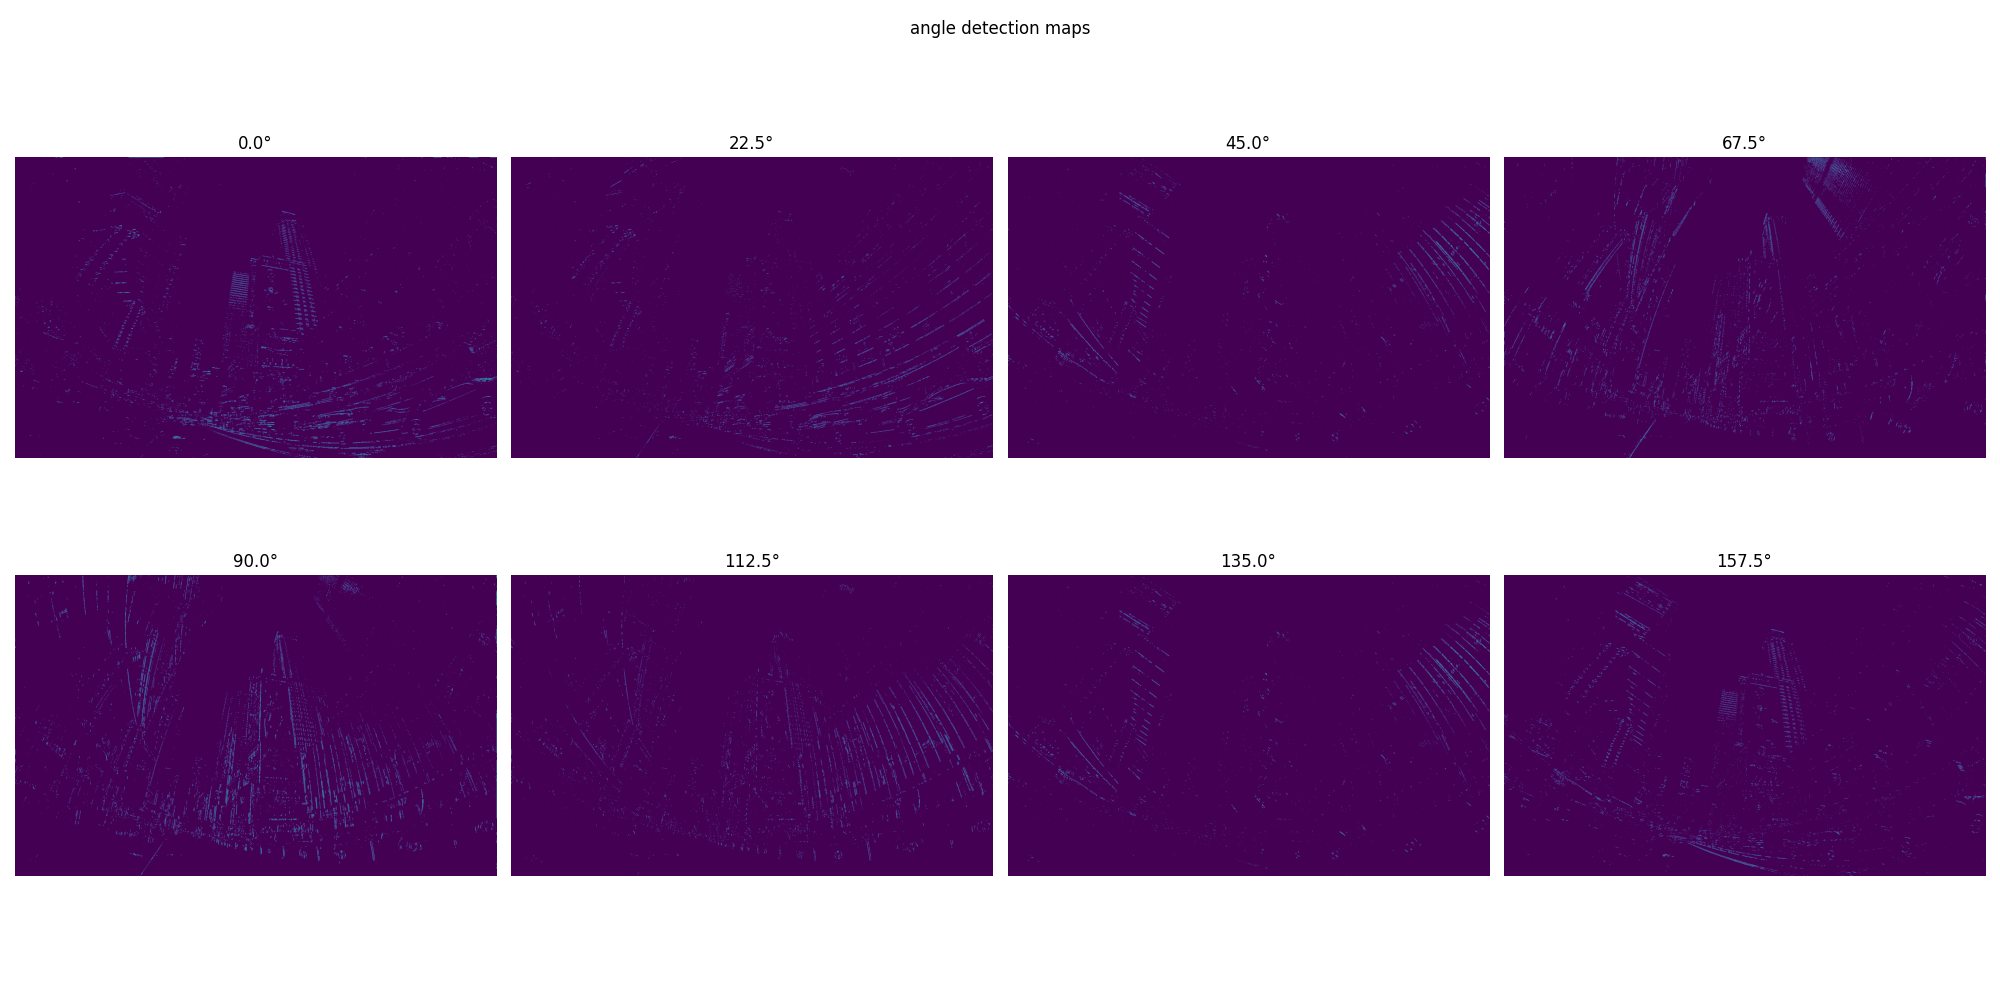
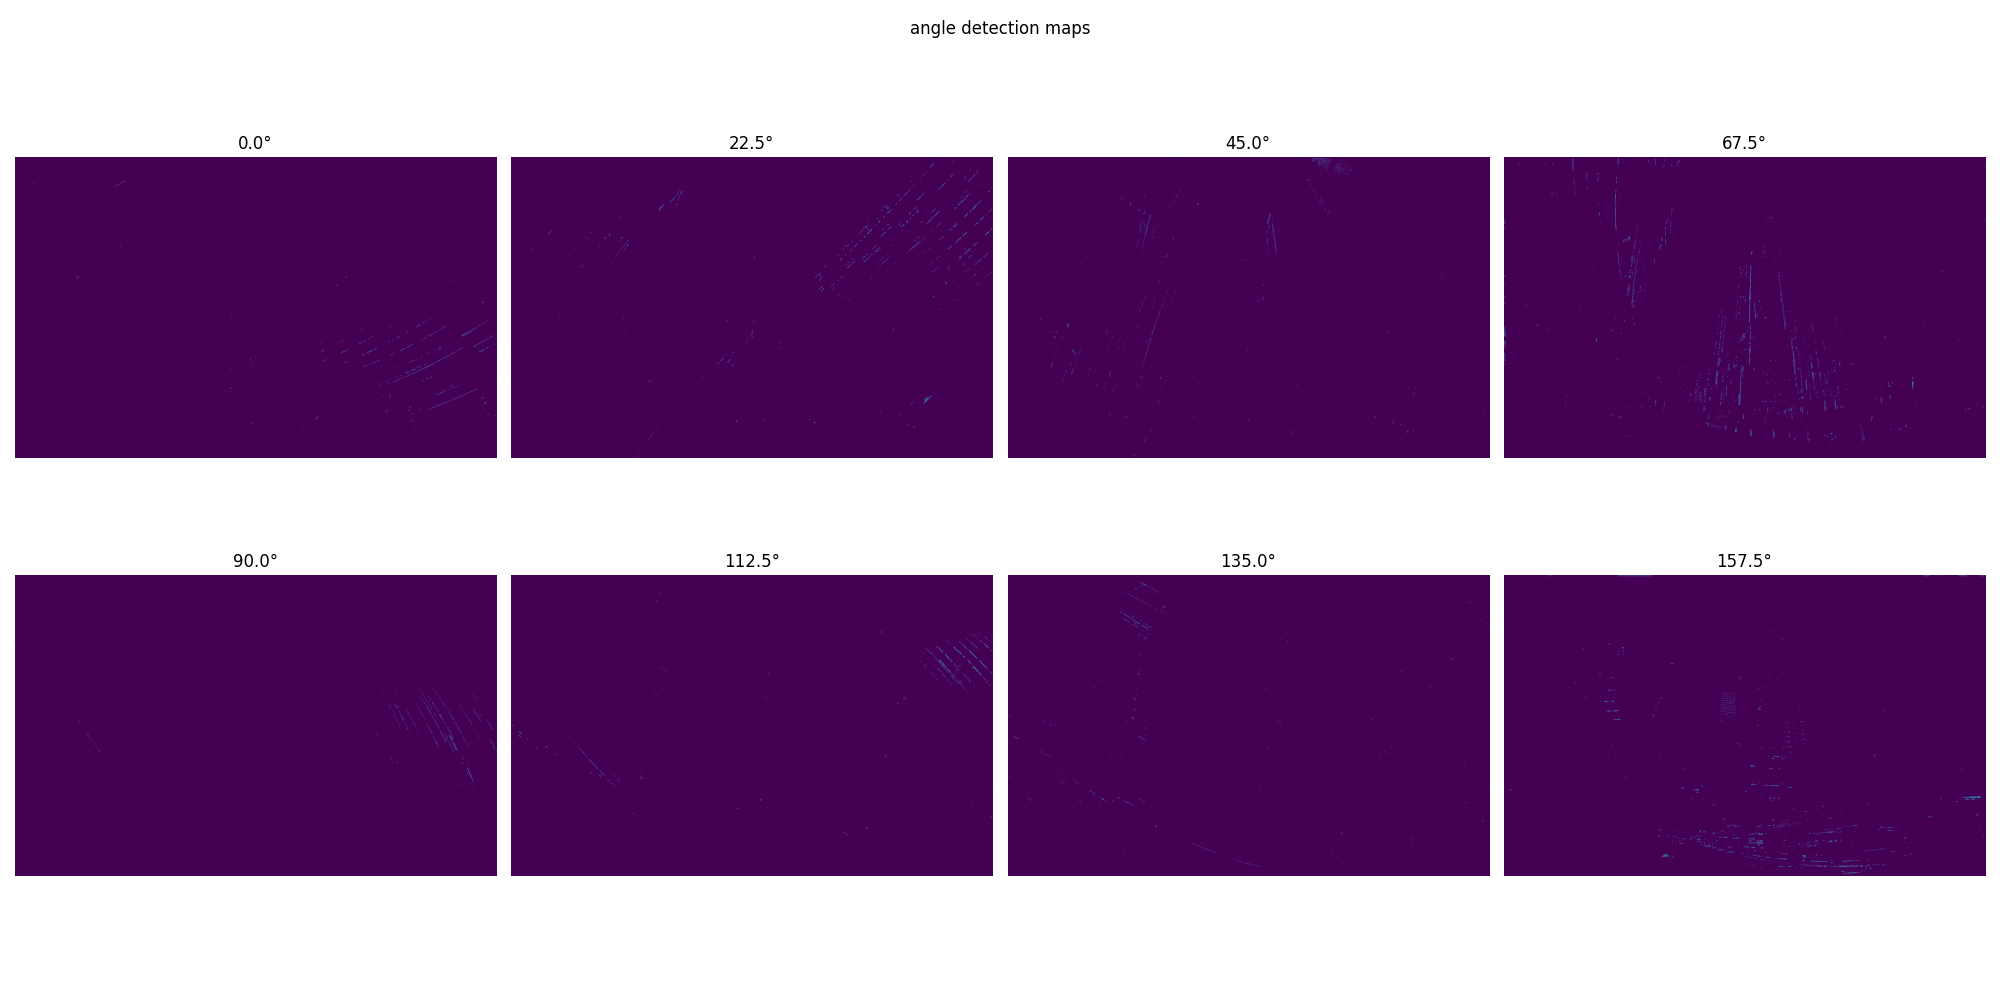
edited minimum filter size method

diff --git a/src/image_preprocessor.py b/src/image_preprocessor.py
@@ -149,7 +149,7 @@ class ImagePreprocessor(Observable):
 
 
         rad_angle = radians(angle)
-        rotation_matrix = np.array([[cos(rad_angle), sin(rad_angle)],
+        rotation_matrix = np.array([[cos(rad_angle), -sin(rad_angle)],
                                     [sin(rad_angle), cos(rad_angle)]])
 
         vector = np.array([size,0])
@@ -213,10 +213,9 @@ class ImagePreprocessor(Observable):
 
             for angle in degree_list:
 
-
                 # Exception handling for angles sizes and types
-                if angle <= 0 or angle > 180 or isinstance(angle, int) == False:
-                    raise ValueError("Degree for the filter cannot be smaller 0° or greater than 180° and must be an integer")
+                if angle <= 0 or angle > 180:
+                    raise ValueError("Degree for the filter cannot be smaller 0° or greater than 180°")
 
                 elif  0 < angle <= 44:
                     x1 = filter_size -1
@@ -224,9 +223,7 @@ class ImagePreprocessor(Observable):
                     x2, y2 = self.get_endpoints(angle, filter_size)
                     # convert to array
                     x2 = filter_size -1 #columns. line intersects always at last column
-                    y2 = (filter_size - y2) - 1
-                    if y2 < 0:
-                        raise ValueError("Chosen filter size is too small for this angle")
+                    y2 = round(((filter_size - y2) - 1),3)
 
                 elif 45 <= angle <= 89:
                     x1 = filter_size -1
@@ -234,18 +231,15 @@ class ImagePreprocessor(Observable):
                     x2, y2 = self.get_endpoints(angle, filter_size)
                     #convert to array
                     y2 = 0 # rows
-                    x2 = x2 - 1
-                    if x2 < 0:
-                        raise ValueError("Chosen filter size is too small for this angle")
+                    x2 = round((x2 - 1),3)
+
 
                 elif 90 <= angle <= 134:
                     x1 = filter_size - 1
                     y1 = filter_size -1
                     x2, y2 = self.get_endpoints(angle, filter_size)
                     y2 = 0
-                    x2 = (filter_size - abs(x2)) - 1 # take absolute value here to change from negative to positive -> no neg. values in arrays
-                    if x2 <= 0:
-                        raise ValueError("Chosen filter size is too small for this angle")
+                    x2 = round(((filter_size - abs(x2)) - 1)) # take absolute value here to change from negative to positive -> no neg. values in arrays
 
                 elif angle == 135:
                     x1 = filter_size - 1
@@ -253,15 +247,13 @@ class ImagePreprocessor(Observable):
                     x2 = 0
                     y2 = 0
 
-                #135 <= angle <= 180:
+                #135 < angle <= 180:
                 else:
                     x1 = filter_size - 1
                     y1 = filter_size -1
                     x2, y2 = self.get_endpoints(angle, filter_size)
                     x2 = 0 # columns do not change- > intersect always at column 0
-                    y2 = (filter_size - abs(y2)) - 1
-                    if y2 <= 0:
-                        raise ValueError("Chosen filter size is too small for this angle")
+                    y2 = round(((filter_size - abs(y2)) - 1),3)
 
 
                 conv_filter = np.zeros(shape=(filter_size,filter_size))
@@ -269,6 +261,7 @@ class ImagePreprocessor(Observable):
                 conv_filter[angle_line] = 1
                 angle_filters.append(conv_filter)
 
+            print(angle_filters)
             return angle_filters
 
 
@@ -283,7 +276,6 @@ class ImagePreprocessor(Observable):
         """
 
         count = angular_resolution
-        filter_size = 15 #start out with default filter size
         degree_list = []
         filter_size_list = []
 
@@ -293,12 +285,12 @@ class ImagePreprocessor(Observable):
             angular_resolution += count
 
         for arc in degree_list:
-
+            filter_size = 15 #start out with default filter size
             x, y = self.get_endpoints(arc, filter_size)
             x = abs(x)
             y = abs(y)
 
-            if 0 < arc <= 44 or arc >= 135: #first and fourth case
+            if 0 < arc <= 44 or arc >= 136: #first and fourth case
                 while y >= 0:
                     filter_size -= 1
                     x, y = self.get_endpoints(arc, filter_size)
@@ -309,7 +301,7 @@ class ImagePreprocessor(Observable):
                         break
 
 
-            elif 45 <= arc <= 89: # second case
+            elif 46 <= arc <= 89: # second case
                 while x >= 0:
                     filter_size -= 1
                     x, y = self.get_endpoints(arc, filter_size)
@@ -318,6 +310,9 @@ class ImagePreprocessor(Observable):
                     if (x-1) <= 3:
                         filter_size_list.append(filter_size)
                         break
+
+            elif arc == 45 or arc == 90 or arc == 135 or arc==180:
+                    filter_size_list.append(4)
 
             else:# 90 <= arc <= 134 so third case
                 while x >= 0:
@@ -331,6 +326,7 @@ class ImagePreprocessor(Observable):
 
 
         min_filter_size = max(filter_size_list)
+        print(filter_size_list)
         return min_filter_size
 
 
